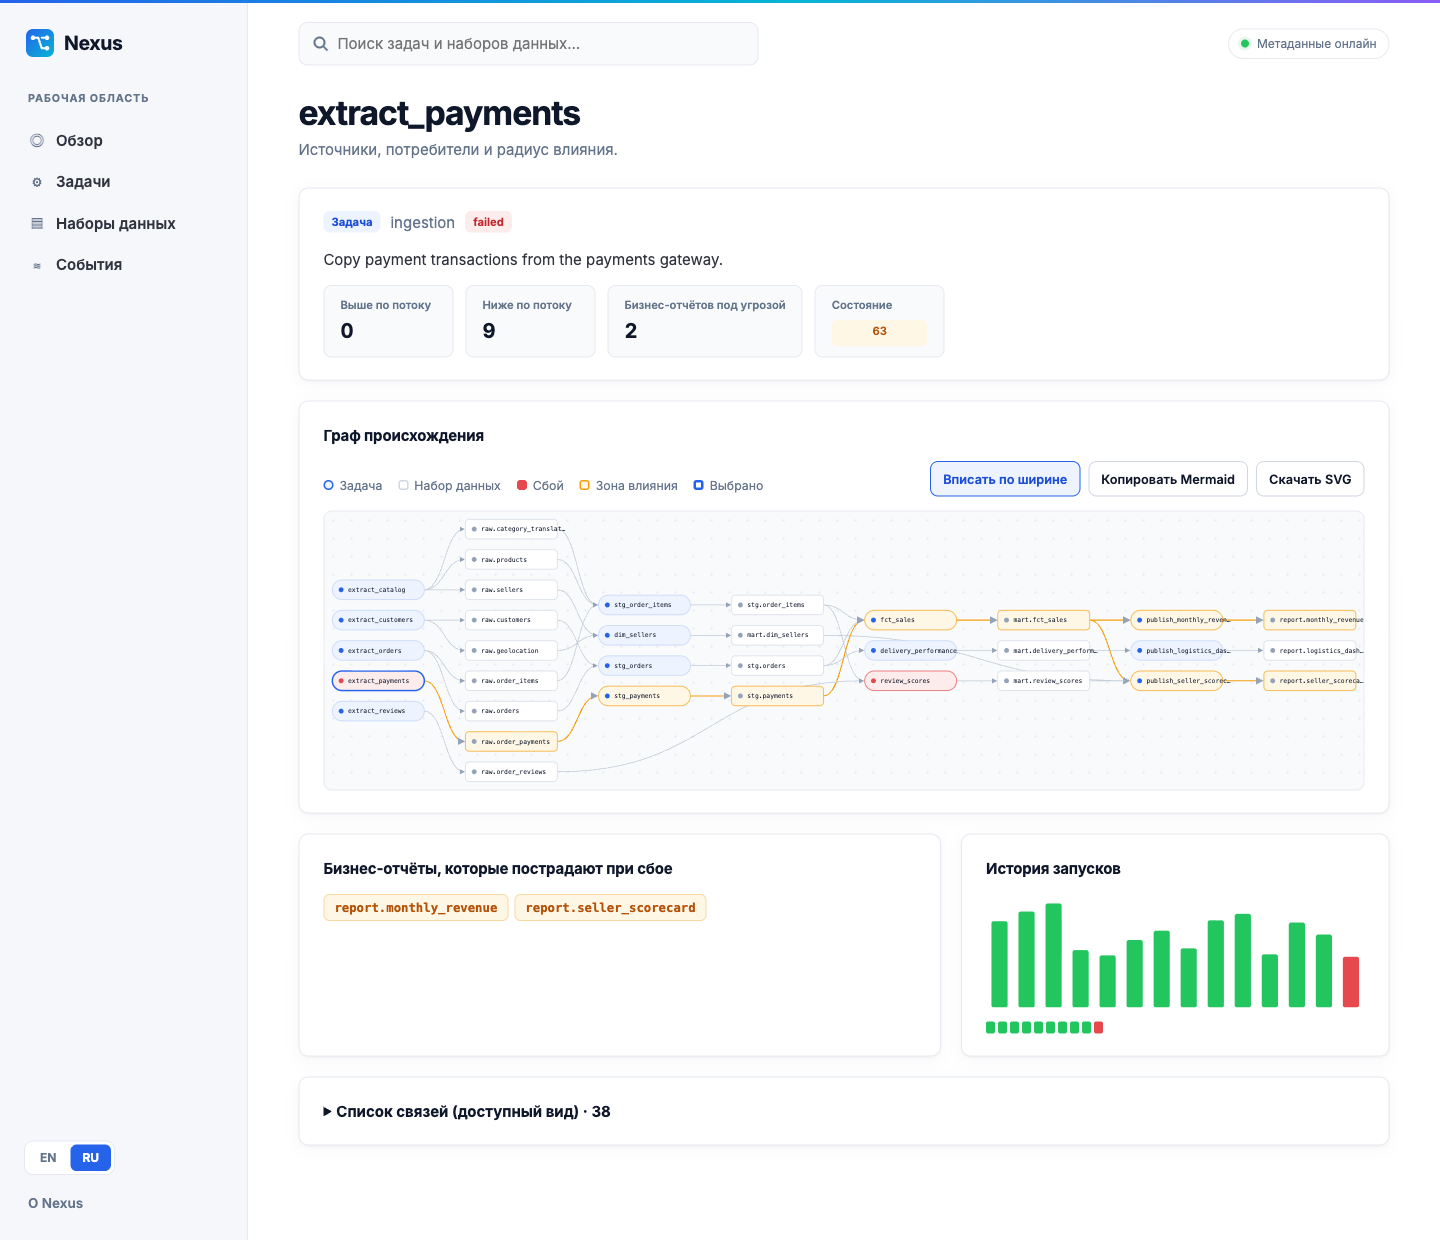
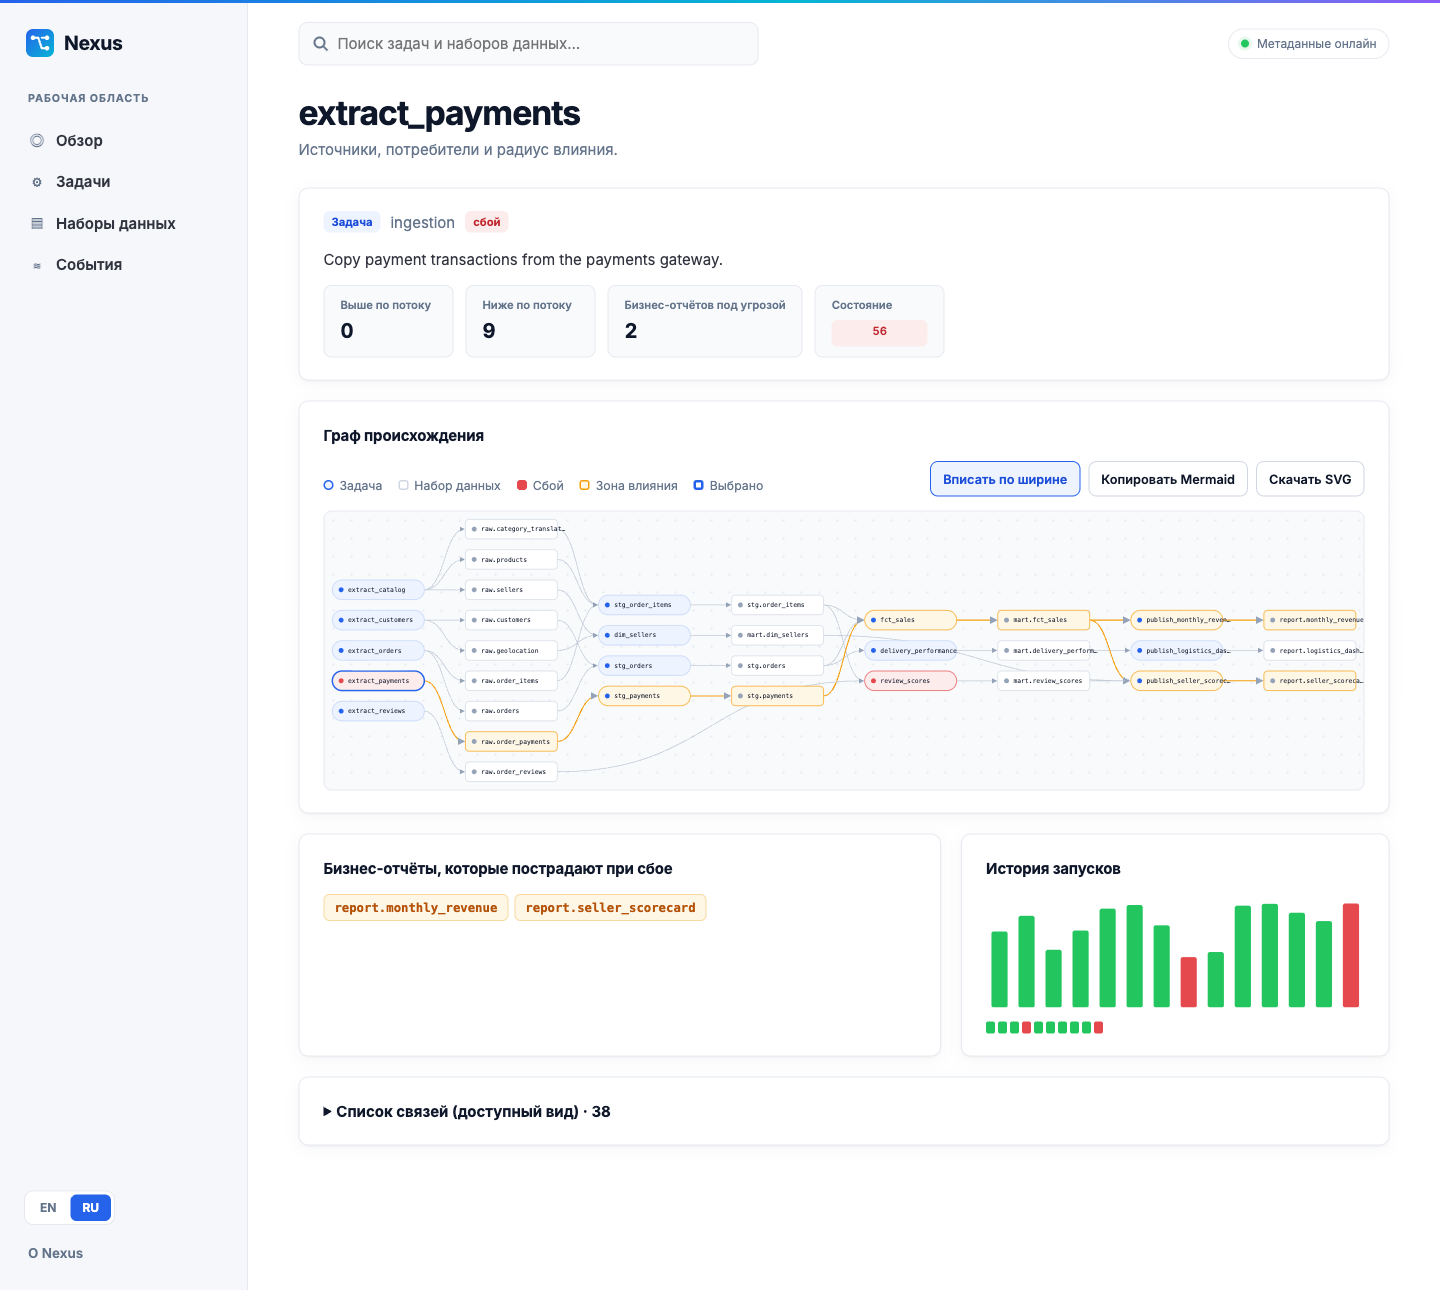
fix: stable demo seed, URI-safe node refs, RU status labels, CI and license
- seed.py: per-run RNG so reruns only change today's forced failures
- model.js: nodeRef keeps namespaces containing colons; uniqueEvents drops re-delivered events
- i18n: translated run states and pagination label
- charts: lineage SVG links reachable to assistive tech; empty-graph state
- smoke.py hides its audit namespace on cleanup
- add Apache-2.0 LICENSE and GitHub Actions CI; refresh screenshots

diff --git a/apps/web/public/nexus.js b/apps/web/public/nexus.js
@@ -1,6 +1,6 @@
 import { durationChart, lineageGraph, runStrip, runsChart } from './charts.js'
-import { lang, setLang, t, translateDocument } from './i18n.js'
-import { HEALTH_RUNS, blastRadius, dailyOutcomes, edgesOf, healthBand, healthScore, isFailed, reachable, shortName, toMermaid }
+import { lang, setLang, stateLabel, t, translateDocument } from './i18n.js'
+import { HEALTH_RUNS, blastRadius, dailyOutcomes, edgesOf, healthBand, healthScore, isFailed, nodeRef, reachable, shortName, toMermaid, uniqueEvents }
   from './model.js'
 
 const PAGE_SIZE = 20
@@ -57,7 +57,7 @@ function status(value) {
   const label = text(value, 'UNKNOWN')
   const tone = { COMPLETED: 'ok', COMPLETE: 'ok', FAILED: 'bad', FAIL: 'bad', ABORT: 'bad', ABORTED: 'bad',
     RUNNING: 'active', START: 'active' }[label] ?? 'neutral'
-  return element('span', `status ${tone}`, label.toLowerCase())
+  return element('span', `status ${tone}`, stateLabel(label))
 }
 
 function healthPill(score) {
@@ -81,7 +81,7 @@ function table(headers, rows, empty) {
 
 function pagination(page, offset, count, length, params = {}) {
   const nav = element('nav', 'pagination')
-  nav.setAttribute('aria-label', 'Pagination')
+  nav.setAttribute('aria-label', t('page.label'))
   if (offset > 0) nav.append(link(t('page.previous'), page, { ...params, offset: Math.max(0, offset - PAGE_SIZE) }))
   nav.append(element('span', '', length
     ? `${offset + 1}–${offset + length} ${t('page.of')} ${numbers().format(count)}` : t('page.none')))
@@ -126,16 +126,17 @@ const visibleNamespaces = async (signal) =>
 async function recentEvents(signal) {
   const [events, namespaces] = await Promise.all([listAll('events/lineage', 'events', signal), visibleNamespaces(signal)])
   const visible = new Set(namespaces.map(({ name }) => name))
-  return events.filter((event) => visible.has(event.job?.namespace))
+  return uniqueEvents(events.filter((event) => visible.has(event.job?.namespace)))
 }
 
 const nodeId = (kind, namespace, name) => `${kind}:${namespace}:${name}`
 const lineageOf = async (id, signal) =>
   records(await get(`lineage?${new URLSearchParams({ nodeId: id, depth: LINEAGE_DEPTH })}`, signal), 'graph')
 
-function nodeLink(id, className) {
-  const [kind, namespace, ...rest] = id.split(':')
-  return link(rest.join(':'), 'lineage', { kind, namespace, name: rest.join(':') }, className)
+const nodeHref = (node) => href('lineage', nodeRef(node))
+
+function nodeLink(node, className) {
+  return link(shortName(node), 'lineage', nodeRef(node), className)
 }
 
 function lineageLink(kind, record) {
@@ -151,8 +152,8 @@ function kpi(label, value, hint, tone = '', page) {
   return card
 }
 
-function incidentCard(job, radius) {
-  const outputs = radius.outputs.map((id) => element('li', '', nodeLink(id)))
+function incidentCard(job, radius, nodes) {
+  const outputs = radius.outputs.map((id) => element('li', '', nodeLink(nodes.get(id) ?? id)))
   const chip = (count, label) => element('span', 'chip', `${label}: `, element('b', '', String(count)))
   return element('article', 'incident',
     element('div', 'incident-head', status(job.latestRun?.state), lineageLink('job', job),
@@ -191,7 +192,8 @@ async function overview({ signal }) {
   const failing = jobs.filter((job) => isFailed(job.latestRun?.state))
   const incidents = await Promise.all(failing.slice(0, MAX_INCIDENTS).map(async (job) => {
     const id = nodeId('job', job.namespace, job.name)
-    return incidentCard(job, blastRadius(edgesOf(await lineageOf(id, signal)), id))
+    const graph = await lineageOf(id, signal)
+    return incidentCard(job, blastRadius(edgesOf(graph), id), new Map(graph.map((node) => [node.id, node])))
   }))
   const scores = jobs.map((job) => healthScore(job.latestRuns))
   const scored = scores.filter((score) => score !== null)
@@ -322,11 +324,13 @@ async function lineagePage({ signal, params }) {
     ? get(`namespaces/${encodeURIComponent(namespace)}/jobs/${encodeURIComponent(name)}/runs?limit=14`, signal)
     : Promise.resolve({ runs: [] })
   const [graph, runBody] = await Promise.all([lineageOf(id, signal), runsRequest])
+  if (!graph.length) return section(null, element('p', 'empty', t('empty.edges')))
   const runs = records(runBody, 'runs')
+  const nodes = new Map(graph.map((n) => [n.id, n]))
   const edges = edgesOf(graph)
   const radius = blastRadius(edges, id)
   const upstream = reachable(edges, id, 'up')
-  const node = graph.find((n) => n.id === id)
+  const node = nodes.get(id)
   title.textContent = name
 
   const score = kind === 'job' ? healthScore(runs) : null
@@ -342,23 +346,23 @@ async function lineagePage({ signal, params }) {
 
   const svgNode = lineageGraph(graph, {
     focus: id, impact: new Set([...radius.jobs, ...radius.datasets]),
-    hrefFor: (n) => { const [k, ns, ...rest] = n.id.split(':'); return href('lineage', { kind: k, namespace: ns, name: rest.join(':') }) },
+    hrefFor: nodeHref,
   })
   const graphPanel = section(t('lineage.graph'), element('div', 'graph-bar', legend(), exportButtons(graph, svgNode, name)),
     element('div', 'graph-scroll', svgNode))
 
   const impactPanel = section(t('lineage.outputsAtRisk'), radius.outputs.length
-    ? element('ul', 'output-list', ...radius.outputs.map((out) => element('li', '', nodeLink(out))))
+    ? element('ul', 'output-list', ...radius.outputs.map((out) => element('li', '', nodeLink(nodes.get(out) ?? out))))
     : element('p', 'empty', t('lineage.noOutputs')))
   const fields = Array.isArray(node?.data?.fields) ? node.data.fields : []
   const detailPanel = kind === 'job'
     ? section(t('lineage.runs'), runs.length ? durationChart(runs) : null, runs.length ? runStrip(runs) : element('p', 'empty', t('lineage.noRuns')))
     : section(`${t('lineage.schema')} · ${fields.length}`, element('ul', 'fields', ...fields.map((f) => element('li', '', text(f.name)))))
 
-  const labels = new Map(graph.map((n) => [n.id, shortName(n.id)]))
   const details = element('details', 'panel', element('summary', '', `${t('lineage.table')} · ${edges.length}`),
     table([t('col.origin'), '', t('col.destination')], edges.map(({ origin, destination }) =>
-      [labels.get(origin) ?? origin, element('span', 'edge-arrow', '→'), labels.get(destination) ?? destination]), t('empty.edges')))
+      [nodeLink(nodes.get(origin) ?? origin), element('span', 'edge-arrow', '→'), nodeLink(nodes.get(destination) ?? destination)]),
+    t('empty.edges')))
   return element('div', 'dashboard', header, graphPanel, element('div', 'grid-2', impactPanel, detailPanel), details)
 }
 

diff --git a/apps/web/public/charts.js b/apps/web/public/charts.js
@@ -1,6 +1,7 @@
 // SVG builders. Colours come from CSS classes so the stylesheet owns the palette.
 import { t } from './i18n.js'
 import { edgesOf, isFailed, layout, shortName } from './model.js'
+import { stateLabel } from './i18n.js'
 
 const NS = 'http://www.w3.org/2000/svg'
 const NODE_W = 188
@@ -34,7 +35,7 @@ export function lineageGraph(graph, { focus, impact, hrefFor }) {
   }
   const width = PAD * 2 + Math.max(...[...position.values()].map((p) => p.x)) * (NODE_W + COL_GAP) + NODE_W
   const height = PAD * 2 + Math.max(...[...position.values()].map((p) => p.y)) * (NODE_H + ROW_GAP) + NODE_H
-  const root = svg('svg', { viewBox: `0 0 ${width} ${height}`, width, height, class: 'graph', role: 'img',
+  const root = svg('svg', { viewBox: `0 0 ${width} ${height}`, width, height, class: 'graph', role: 'group',
     'aria-label': `${t('lineage.graph')}: ${ids.length} ${t('lineage.nodes')}, ${edges.length} ${t('lineage.edges')}` })
   root.append(svg('defs', {}, svg('marker', { id: 'arrow', viewBox: '0 0 10 10', refX: 9, refY: 5,
     markerWidth: 7, markerHeight: 7, orient: 'auto-start-reverse' }, svg('path', { d: 'M0 0 L10 5 L0 10 z', class: 'arrow-head' }))))
@@ -55,7 +56,7 @@ export function lineageGraph(graph, { focus, impact, hrefFor }) {
     const failed = job && isFailed(node.data?.latestRun?.state)
     const classes = ['node', job ? 'job' : 'dataset', failed && 'failed', impact.has(node.id) && 'impact',
       node.id === focus && 'focus'].filter(Boolean).join(' ')
-    const name = shortName(node.id)
+    const name = shortName(node)
     const link = svg('a', { href: hrefFor(node), class: classes },
       svg('title', {}, `${job ? t('kind.job') : t('kind.dataset')}: ${name}`),
       svg('rect', { x, y, width: NODE_W, height: NODE_H, rx: job ? NODE_H / 2 : 8 }),
@@ -97,11 +98,11 @@ export function runsChart(buckets) {
 export function runStrip(runs) {
   const list = (Array.isArray(runs) ? runs : []).slice(0, 10).reverse()
   const root = svg('svg', { viewBox: `0 0 ${list.length * 12} 12`, width: list.length * 12, height: 12,
-    class: 'strip', role: 'img', 'aria-label': list.map((run) => run.state).join(', ') || '—' })
+    class: 'strip', role: 'img', 'aria-label': list.map((run) => stateLabel(run.state)).join(', ') || '—' })
   list.forEach((run, index) => {
     const tone = run.state === 'COMPLETED' ? 'ok' : isFailed(run.state) ? 'bad' : 'neutral'
     root.append(svg('rect', { x: index * 12, y: 0, width: 9, height: 12, rx: 2, class: `cell ${tone}` },
-      svg('title', {}, `${run.state} · ${String(run.startedAt ?? '').slice(0, 16).replace('T', ' ')}`)))
+      svg('title', {}, `${stateLabel(run.state)} · ${String(run.startedAt ?? '').slice(0, 16).replace('T', ' ')}`)))
   })
   return root
 }
@@ -118,7 +119,7 @@ export function durationChart(runs) {
     const h = (run.durationMs / max) * (height - 8)
     root.append(svg('rect', { x: index * step + step * 0.2, y: height - h, width: step * 0.6, height: h, rx: 2,
       class: `bar ${isFailed(run.state) ? 'bad' : 'ok'}` },
-    svg('title', {}, `${String(run.startedAt).slice(0, 10)} · ${run.state} · ${Math.round(run.durationMs / 60000)} ${t('unit.min')}`)))
+    svg('title', {}, `${String(run.startedAt).slice(0, 10)} · ${stateLabel(run.state)} · ${Math.round(run.durationMs / 60000)} ${t('unit.min')}`)))
   })
   return root
 }

diff --git a/apps/web/public/i18n.js b/apps/web/public/i18n.js
@@ -39,7 +39,10 @@ const STRINGS = {
     'error.title': 'Unable to load this view', 'error.retry': 'Retry', 'error.notFound': 'This metadata record was not found.',
     'error.service': 'The metadata service could not complete this request.',
     'error.shape': 'Unexpected metadata response.', 'error.unknown': 'An unexpected error occurred.',
-    'kind.job': 'Job', 'kind.dataset': 'Dataset',
+    'kind.job': 'Job', 'kind.dataset': 'Dataset', 'page.label': 'Pagination',
+    'state.NEW': 'new', 'state.RUNNING': 'running', 'state.COMPLETED': 'completed', 'state.FAILED': 'failed',
+    'state.ABORTED': 'aborted', 'state.START': 'start', 'state.COMPLETE': 'complete', 'state.FAIL': 'fail',
+    'state.ABORT': 'abort', 'state.OTHER': 'other', 'state.UNKNOWN': 'unknown',
     'lineage.graph': 'Lineage graph', 'lineage.nodes': 'nodes', 'lineage.edges': 'edges',
     'lineage.upstream': 'Upstream', 'lineage.downstream': 'Downstream', 'lineage.table': 'Edge list (accessible view)',
     'lineage.legend.job': 'Job', 'lineage.legend.dataset': 'Dataset', 'lineage.legend.failed': 'Failed',
@@ -100,7 +103,10 @@ const STRINGS = {
     'error.title': 'Не удалось загрузить страницу', 'error.retry': 'Повторить',
     'error.notFound': 'Запись метаданных не найдена.', 'error.service': 'Сервис метаданных не смог выполнить запрос.',
     'error.shape': 'Неожиданный ответ сервиса.', 'error.unknown': 'Произошла непредвиденная ошибка.',
-    'kind.job': 'Задача', 'kind.dataset': 'Набор данных',
+    'kind.job': 'Задача', 'kind.dataset': 'Набор данных', 'page.label': 'Страницы',
+    'state.NEW': 'новый', 'state.RUNNING': 'выполняется', 'state.COMPLETED': 'успешно', 'state.FAILED': 'сбой',
+    'state.ABORTED': 'прерван', 'state.START': 'старт', 'state.COMPLETE': 'завершён', 'state.FAIL': 'сбой',
+    'state.ABORT': 'прерван', 'state.OTHER': 'другое', 'state.UNKNOWN': 'неизвестно',
     'lineage.graph': 'Граф происхождения', 'lineage.nodes': 'узлов', 'lineage.edges': 'связей',
     'lineage.upstream': 'Выше по потоку', 'lineage.downstream': 'Ниже по потоку',
     'lineage.table': 'Список связей (доступный вид)',
@@ -142,6 +148,12 @@ export function setLang(next) {
 
 export function t(key) {
   return STRINGS[lang][key] ?? STRINGS.en[key] ?? key
+}
+
+/** Run state or event type in the current language; unknown values fall back to lower case. */
+export function stateLabel(value) {
+  const raw = String(value ?? 'UNKNOWN')
+  return STRINGS[lang][`state.${raw}`] ?? raw.toLowerCase()
 }
 
 /** Fill static markup: data-i18n sets text, data-i18n-placeholder sets placeholder. */

diff --git a/apps/web/public/model.js b/apps/web/public/model.js
@@ -90,9 +90,27 @@ export function layout(ids, edges) {
   }))
 }
 
-export function shortName(id) {
-  return id.split(':').slice(2).join(':') || id
+/** Kind, namespace and name of a lineage node. Namespaces may be URIs with colons, so node data wins over the id. */
+export function nodeRef(node) {
+  const id = String(node?.id ?? node)
+  const [kind, namespace, ...rest] = id.split(':')
+  const data = node?.data
+  return data?.namespace && data?.name
+    ? { kind, namespace: data.namespace, name: data.name }
+    : { kind, namespace, name: rest.join(':') }
 }
+
+/** Drop re-delivered events (OpenLineage is at-least-once): keep the first per run and event type. */
+export function uniqueEvents(events) {
+  const seen = new Set()
+  return events.filter((event) => {
+    const key = `${event.run?.runId}/${event.eventType}`
+    if (!event.run?.runId || !seen.has(key)) return seen.add(key)
+    return false
+  })
+}
+
+export const shortName = (node) => nodeRef(node).name || String(node?.id ?? node)
 
 /** Mermaid flowchart source for the graph, so lineage can be pasted into docs or PRs. */
 export function toMermaid(graph, failed = new Set()) {
@@ -100,7 +118,7 @@ export function toMermaid(graph, failed = new Set()) {
   const safe = (text) => text.replaceAll('"', "'")
   const lines = ['flowchart LR']
   for (const node of graph) {
-    const label = safe(shortName(node.id))
+    const label = safe(shortName(node))
     lines.push(node.id.startsWith('job:') ? `  ${key.get(node.id)}["${label}"]` : `  ${key.get(node.id)}[("${label}")]`)
   }
   for (const { origin, destination } of edgesOf(graph)) {

diff --git a/apps/web/test/model.test.js b/apps/web/test/model.test.js
@@ -1,6 +1,6 @@
 import assert from 'node:assert/strict'
 import test from 'node:test'
-import { blastRadius, dailyOutcomes, healthBand, healthScore, layout, reachable, toMermaid } from '../public/model.js'
+import { blastRadius, dailyOutcomes, healthBand, healthScore, layout, nodeRef, reachable, shortName, toMermaid, uniqueEvents } from '../public/model.js'
 
 const run = (state, startedAt = '2026-11-25T01:00:00Z') => ({ state, startedAt })
 // raw → job A → mid → job B → out ; mid → job C → side
@@ -66,4 +66,17 @@ test('russian strings cover every english key', async () => {
   globalThis.navigator ??= { language: 'en' }
   const { KEYS } = await import('../public/i18n.js')
   assert.deepEqual(KEYS.en.filter((key) => !KEYS.ru.includes(key)), [])
+})
+
+test('node refs keep URI namespaces that contain colons', () => {
+  const node = { id: 'dataset:postgres://db:5432:public.orders', data: { namespace: 'postgres://db:5432', name: 'public.orders' } }
+  assert.deepEqual(nodeRef(node), { kind: 'dataset', namespace: 'postgres://db:5432', name: 'public.orders' })
+  assert.equal(shortName(node), 'public.orders')
+  assert.deepEqual(nodeRef('job:analytics:fct_sales'), { kind: 'job', namespace: 'analytics', name: 'fct_sales' })
+})
+
+test('re-delivered events collapse to one per run and type', () => {
+  const run = (runId, eventType) => ({ run: { runId }, eventType })
+  const events = [run('a', 'COMPLETE'), run('a', 'COMPLETE'), run('a', 'START'), run('b', 'COMPLETE'), {}, {}]
+  assert.deepEqual(uniqueEvents(events), [run('a', 'COMPLETE'), run('a', 'START'), run('b', 'COMPLETE'), {}, {}])
 })

diff --git a/demo/seed.py b/demo/seed.py
@@ -5,7 +5,9 @@ Dataset by Olist" (Kaggle, CC BY-NC-SA 4.0). Only metadata is used; no rows are
 redistributed. Run history (times, durations, failures) is synthetic and deterministic.
 
 Usage: python3 demo/seed.py [--api http://127.0.0.1:15000/api/v1] [--days 14]
-Re-running is safe: run IDs derive from (job, day), so the same runs are re-posted.
+Re-running is safe: run IDs and outcomes derive from (job, day), so runs keep their state.
+Each re-run does append duplicate START/terminal events to the Marquez event log.
+Exception: the forced failures in FORCED_TODAY apply to today's run only.
 """
 
 import argparse
@@ -352,7 +354,6 @@ def post(api: str, event: dict) -> None:
 
 
 def build_events(days: int, now: datetime) -> list[dict]:
-    rng = random.Random(SEED)
     owners = {out: ns for ns, _, _, _, outs, _, _ in JOBS for out in outs}
     events = []
     for day in range(days, -1, -1):
@@ -363,6 +364,8 @@ def build_events(days: int, now: datetime) -> list[dict]:
             JOBS
         ):
             run_id = str(uuid5(NAMESPACE_URL, f"nexus-olist/{ns}/{job}/{start.date()}"))
+            # One RNG per run, so a run keeps its outcome whichever day the seed runs.
+            rng = random.Random(f"{SEED}/{ns}/{job}/{start.date()}")
             began = start + timedelta(minutes=order * 6)
             ended = began + timedelta(minutes=minutes * rng.uniform(0.7, 1.6))
             failed = rng.random() < fail_rate

diff --git a/audit/runtime/smoke.py b/audit/runtime/smoke.py
@@ -23,6 +23,12 @@ def read_json(url: str, payload: dict | None = None) -> dict:
         return json.loads(response.read() or b"{}")
 
 
+def hide_namespace(namespace: str) -> None:
+    request = Request(f"{API}/namespaces/{namespace}", method="DELETE")
+    with urlopen(request, timeout=15) as response:
+        response.read()
+
+
 class NexusSmokeTest(unittest.TestCase):
     def test_health_and_web_shell(self) -> None:
         checks = read_json(f"{ADMIN}/healthcheck")
@@ -40,6 +46,8 @@ class NexusSmokeTest(unittest.TestCase):
 
     def test_ingest_runs_and_read_directed_lineage_through_web(self) -> None:
         namespace = f"nexus-audit-{uuid4().hex[:12]}"
+        # Hide the synthetic namespace afterwards so it never pollutes the workspace.
+        self.addCleanup(hide_namespace, namespace)
         started = datetime.now(UTC) - timedelta(minutes=2)
         names = ("orders", "net_sales", "close_report")
         source, mart, report = (

diff --git a/README.md b/README.md
@@ -10,10 +10,12 @@ A data-lineage and pipeline-operations workspace built on the open-source [Marqu
 
 **English** · [Русский](README.ru.md)
 
+[![CI](https://github.com/AyanbergenSaduakassov07/nexus/actions/workflows/ci.yml/badge.svg)](https://github.com/AyanbergenSaduakassov07/nexus/actions/workflows/ci.yml)
 ![OpenLineage](https://img.shields.io/badge/OpenLineage-2--0--2-2563eb)
 ![Marquez](https://img.shields.io/badge/Marquez-0.51.1-06b6d4)
 ![No build step](https://img.shields.io/badge/frontend-zero%20dependencies-22c55e)
 ![i18n](https://img.shields.io/badge/UI-EN%20%7C%20RU-f59e0b)
+[![License](https://img.shields.io/badge/license-Apache--2.0-64748b)](LICENSE)
 
 <img src="docs/images/overview-en.png" alt="Nexus operations overview" width="900">
 
@@ -121,7 +123,7 @@ sequenceDiagram
     N->>X: GET /api/v1/namespaces/ingestion/jobs/extract_payments/runs
     M-->>N: last runs
     Note over N: model.js<br/>blastRadius() → BFS downstream<br/>healthScore() → last 10 runs
-    N-->>U: Graph (failed = red, impact = amber),<br/>reports at risk, health 63
+    N-->>U: Graph (failed = red, impact = amber),<br/>reports at risk, health 56
 ```
 
 ### Frontend modules
@@ -210,7 +212,7 @@ Two terms make the score explainable. A single failure today costs 30 points str
 **Requirements:** Docker with Compose v2, Python 3.11+ and OpenSSL. On Apple Silicon, use OrbStack or Docker Desktop with AMD64 emulation.
 
 ```sh
-git clone <this repo> nexus && cd nexus/audit/runtime
+git clone https://github.com/AyanbergenSaduakassov07/nexus.git nexus && cd nexus/audit/runtime
 
 # 1. Create a local database password once
 [ -e .env ] || (umask 077; printf 'NEXUS_MARQUEZ_DB_PASSWORD=%s\n' "$(openssl rand -hex 32)" > .env)
@@ -285,6 +287,7 @@ The unit tests need nothing beyond Node 18+. The smoke test checks against the r
 
 ## Credits and licenses
 
+- **Nexus** is released under [Apache-2.0](LICENSE).
 - **Marquez** 0.51.1 is © the Marquez project contributors, under [Apache-2.0](upstream/marquez/LICENSE). See the [upstream audit](docs/upstream-audit.md).
 - **OpenLineage** is an LF AI & Data project.
 - **Olist dataset** is © Olist, under [CC BY-NC-SA 4.0](https://creativecommons.org/licenses/by-nc-sa/4.0/). Only schema metadata is used.
